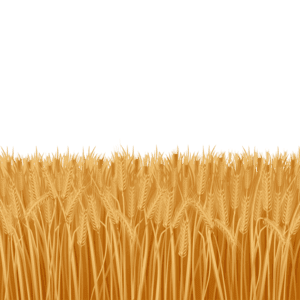
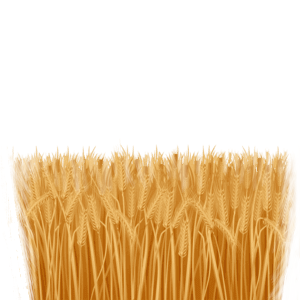
fixed change navigation primary color when overlay on about section

Changed region(s): [[0.0, 0.48, 0.51, 1.0], [0.72, 0.48, 1.0, 1.0], [0.54, 0.51, 0.69, 0.63]]

diff --git a/src/pixijs/worlds/AboutWorld.ts b/src/pixijs/worlds/AboutWorld.ts
@@ -23,7 +23,7 @@ export class AboutWorld extends Container {
 
    stickman: Stickman;
 
-   static WORLD_WIDTH = 10000;
+   static WORLD_WIDTH = 12000;
    static WORLD_HEIGHT = 800;
 
    constructor(app: Application) {
@@ -31,6 +31,7 @@ export class AboutWorld extends Container {
 
       this.app = app;
       this.sortableChildren = true;
+      this.setSize(AboutWorld.WORLD_WIDTH, AboutWorld.WORLD_HEIGHT);
 
       const screenWidth = app.renderer.screen.width;
       const screenHeight = app.renderer.screen.height;
@@ -114,22 +115,7 @@ export class AboutWorld extends Container {
       this.ground.width = AboutWorld.WORLD_WIDTH;
       this.ground.height = 130;
       this.ground.y = screenHeight - AboutWorld.WORLD_HEIGHT / 7;
-      // this.ground.y = AboutWorld.WORLD_HEIGHT - 100;
       this.addChild(this.ground);
-
-      // const grassForegroundTexture = Texture.from('ground_2');
-      // grassForegroundTexture.source.addressMode = 'repeat';
-
-      // const grassForegroundTextureRepeated = new Texture({
-      //    source: grassForegroundTexture.source,
-      //    frame: new Rectangle(0, 0, AboutWorld.WORLD_WIDTH, 600),
-      // });
-
-      // this.grassForeground = new Sprite(grassForegroundTextureRepeated);
-      // this.grassForeground.width = AboutWorld.WORLD_WIDTH;
-      // this.grassForeground.height = AboutWorld.WORLD_HEIGHT;
-      // this.grassForeground.y = AboutWorld.WORLD_HEIGHT / 2 + 20;
-      // this.addChild(this.grassForeground);
 
       this.stickman = new Stickman();
       this.stickman.scale.set(0.4);

diff --git a/src/ts/about.ts b/src/ts/about.ts
@@ -67,9 +67,9 @@ gsap.from('#about .about-me__description > img', {
    scrollTrigger: {
       trigger: '#about .about-me__description > img',
       pin: false, // pin the trigger element while active
-      start: 'center center', // when the top of the trigger hits the top of the viewport
+      start: 'top center', // when the top of the trigger hits the top of the viewport
       end: 'bottom center', // end after scrolling 500px beyond the start
-      scrub: 1.5, // smooth scrubbing, takes 1 second to "catch up" to the scrollbar
+      scrub: true, // smooth scrubbing, takes 1 second to "catch up" to the scrollbar
    },
    stagger: 2.5,
    duration: 2,

diff --git a/src/pixijs/scenes/AboutScene.ts b/src/pixijs/scenes/AboutScene.ts
@@ -115,7 +115,7 @@ export class AboutScene extends Scene {
 
       if (
          this.stickmanController.moveState === 1 &&
-         this.cameraX < this.world.width
+         this.cameraX < AboutWorld.WORLD_WIDTH + this.app.renderer.screen.width
       ) {
          this.cameraX += 1 * speed;
          this.world.setCameraX(this.cameraX);
